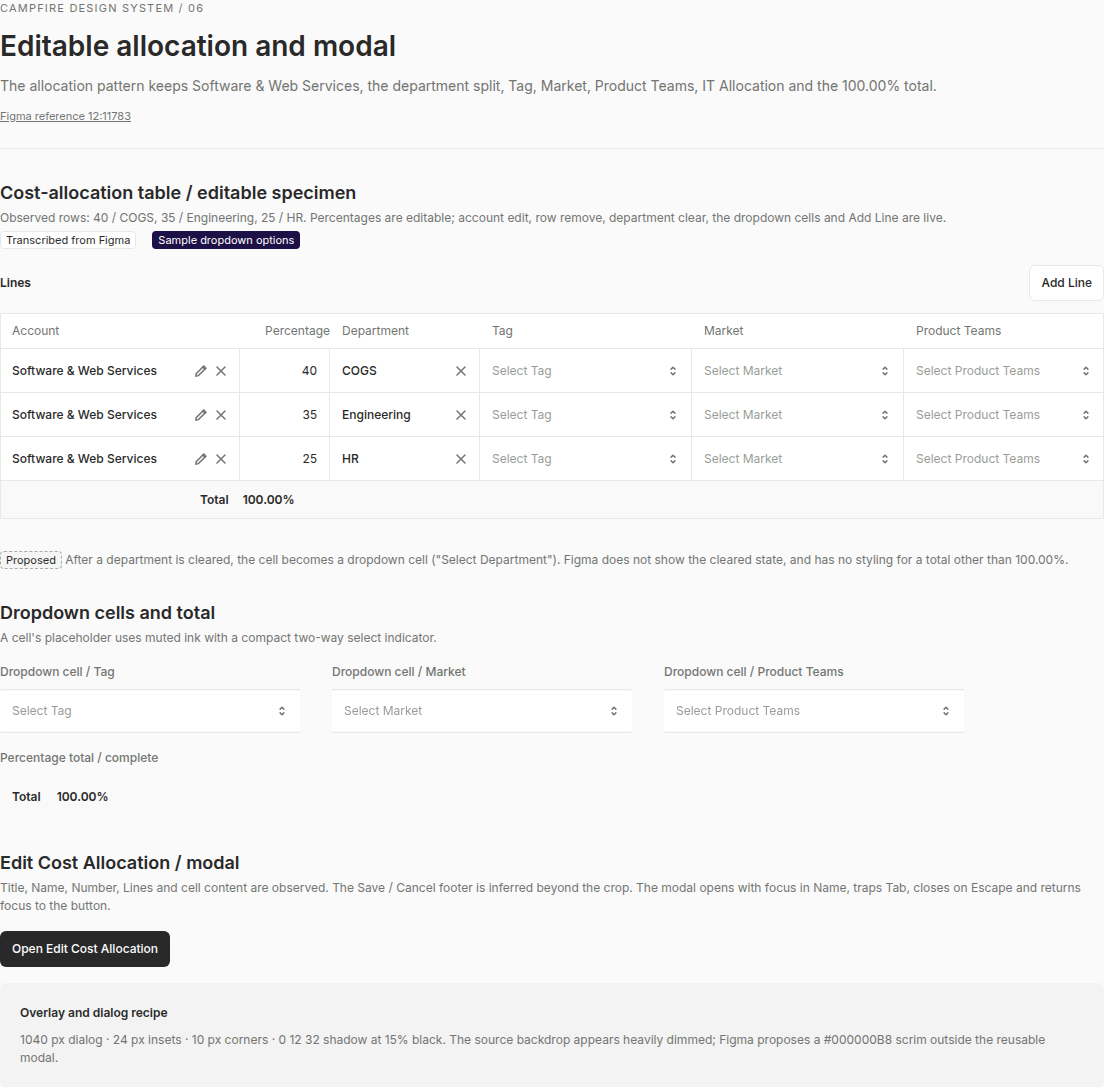
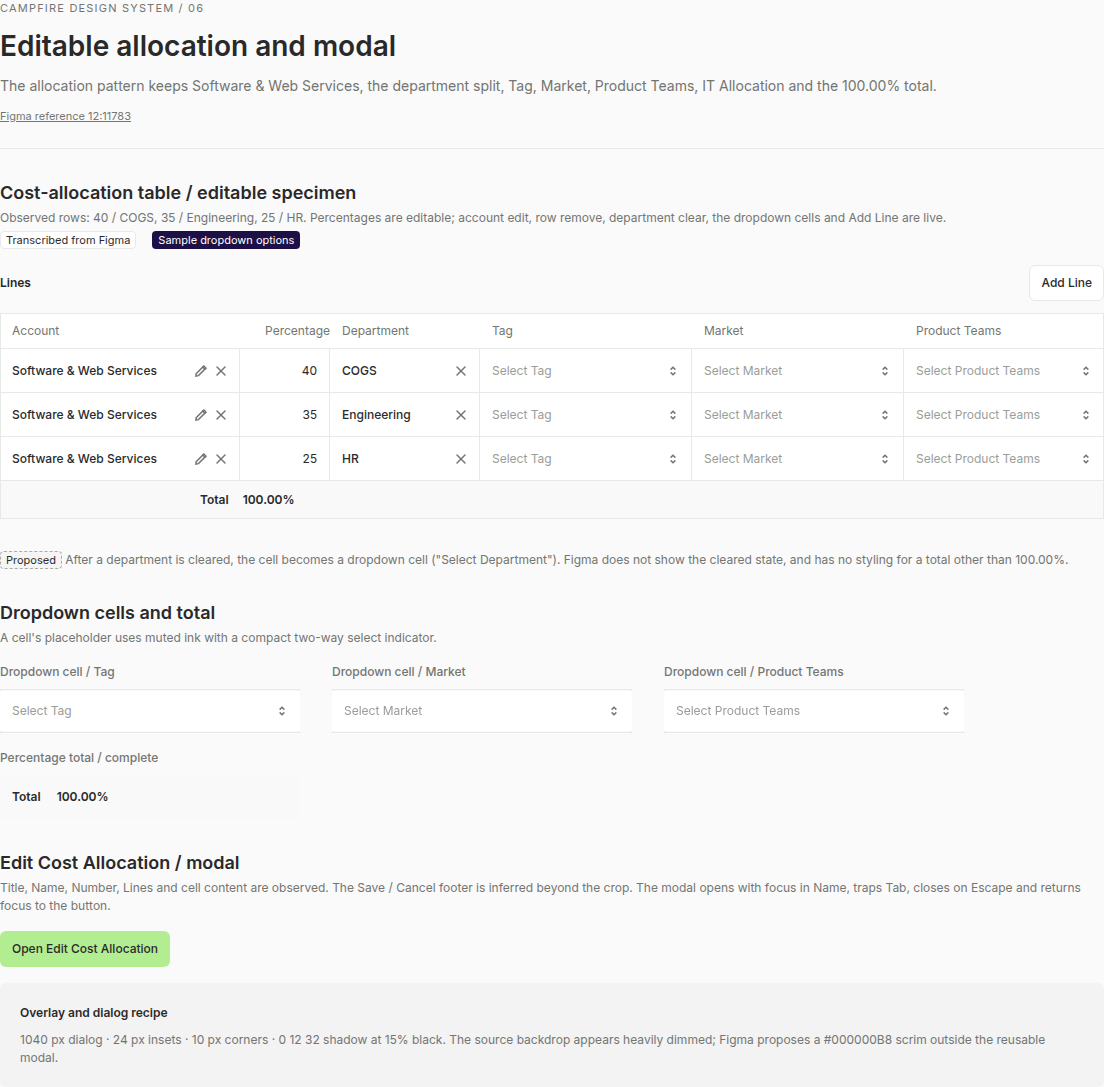
Record the Figma update in the decisions index and refresh screenshots
Claude-Session: https://claude.ai/code/session_014kV3U7DZCnSAbLoBgcox9w

Changed region(s): [[0.0, 0.85, 0.154, 0.9108]]

diff --git a/docs/figma-and-decisions.md b/docs/figma-and-decisions.md
@@ -19,12 +19,15 @@ Component frames carry their own node ids in code comments, in `src/assets/manif
 
 ## Reconstructions
 
-- **Icons.** All 25 icons are reconstructions. Figma itself labels them "screenshot-derived reconstruction; geometry is estimated". The SVGs are generated from the Figma vector data by `scripts/figma/build-icons.mjs` and match Figma's renders within 1% (`scripts/figma/compare-icons.mjs`). Yirang approved using them for this exercise on 2026-10-04.
-- **Logo and mark.** Not in the build yet. Exports of layers 12:12168 and 12:12169 as PNG at 4x are needed (tracked in an issue).
+- **Icons.** All 26 icons are reconstructions. Figma itself labels them "screenshot-derived reconstruction; geometry is estimated" (lock, added later, has no description). The SVGs are generated from the Figma vector data by `scripts/figma/build-icons.mjs`, re-read after the 2026-10-04 icon update, and match Figma's renders within 1% (`scripts/figma/compare-icons.mjs`). Yirang approved using them for this exercise on 2026-10-04.
+- **Logo and mark.** Not reconstructions: the 4x PNG exports of layers 12:12168 and 12:12169 that Yirang supplied, used as supplied.
 
 ## Intentional changes from Figma
 
-- **Focus color.** Figma's focus lime (#BCEFA3, 1.31:1 on white) is replaced with chart green #287D60 (5.0:1) for the outline, at Yirang's request on 2026-10-04. The soft lime ring stays.
+- **Focus everywhere.** Figma draws focus only on the text field. Its Field/Focus recipe (2 px focus lime inside, 2 px lime ring at 50% outside) is applied to buttons, tabs and every focusable control, as Yirang asked on 2026-10-04. This replaced a chart-green outline from earlier that day. Lime fails the 3:1 contrast WCAG asks of focus indicators; see the accessibility flags.
+- **Primary button.** Follows the component (accent lime fill) rather than the Foundations note that calls primary "neutral ink".
+- **Undrawn states.** Button and tab hover reuse surface/subtle (the Tab hover variant), disabled uses muted ink, and there is no primary hover because Figma has no token for one. All are labelled proposed in the showcase.
+- **Tab row gap.** The shared Tabs component uses the 16 px gap from the Tab specimen; the Reconcile screens use 12 and 20 px.
 - **Dropdown menu width.** At least as wide as its trigger instead of a fixed 260 px.
 - **Hit areas.** Allocation row actions get 20 px hit areas around 12 px icons.
 
